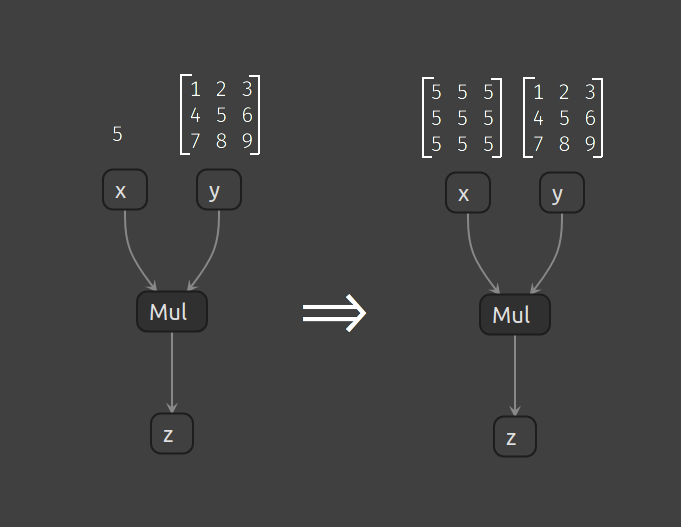
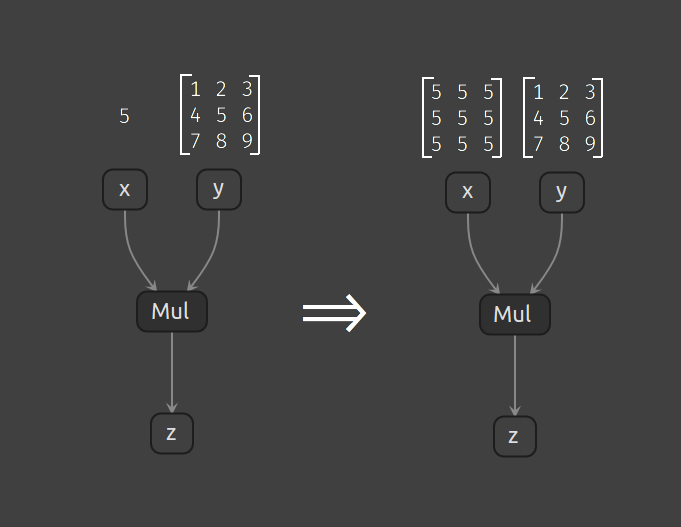
Img corrections and implicit bcast slide

diff --git a/index.html b/index.html
@@ -71,7 +71,7 @@
                 <h2>Netron</h2>
                 <img src="img/netron_github.png" style="width: 70%;">
                 <br>
-                <a href="https://github.com/lutzroeder/netron" class="fira"><i class="fab fa-github-square"></i> lutzroeder/netron</a>
+                <a href="https://github.com/lutzroeder/netron" class="fira"><i class="fab fa-github-square white"></i> lutzroeder/netron</a>
             </section>
             <section>
                 <h2>Grafy w DL</h2>
@@ -104,8 +104,9 @@
                 <ul class="loose">
                     <li class="fragment">Niezależne od sprzętu</li>
                     <li class="fragment">Analogiczne do optymalizacji w kompilatorach</li>
-                    <li class="fragment">Wyszukują "patternów" do podmiany w grafie</li>
+                    <li class="fragment">Wyszukują wzorców (patterns) do podmiany w grafie</li>
                     <li class="fragment">Zamieniają na efektywniejsze rozwiązanie</li>
+                    <li class="fragment">Wielokrotnie "przechodzą" przez graf</li>
                 </ul>
             </section>
             <section>
@@ -120,6 +121,10 @@
             <section>
                 <h3>Constant folding</h3>
                 <img src="img/constant_folding.png">
+            </section>
+            <section>
+                <h3>NOP elimination</h3>
+                <img src="img/nop_elimination.png">
             </section>
         </section>
         <section data-transition="zoom-in">
